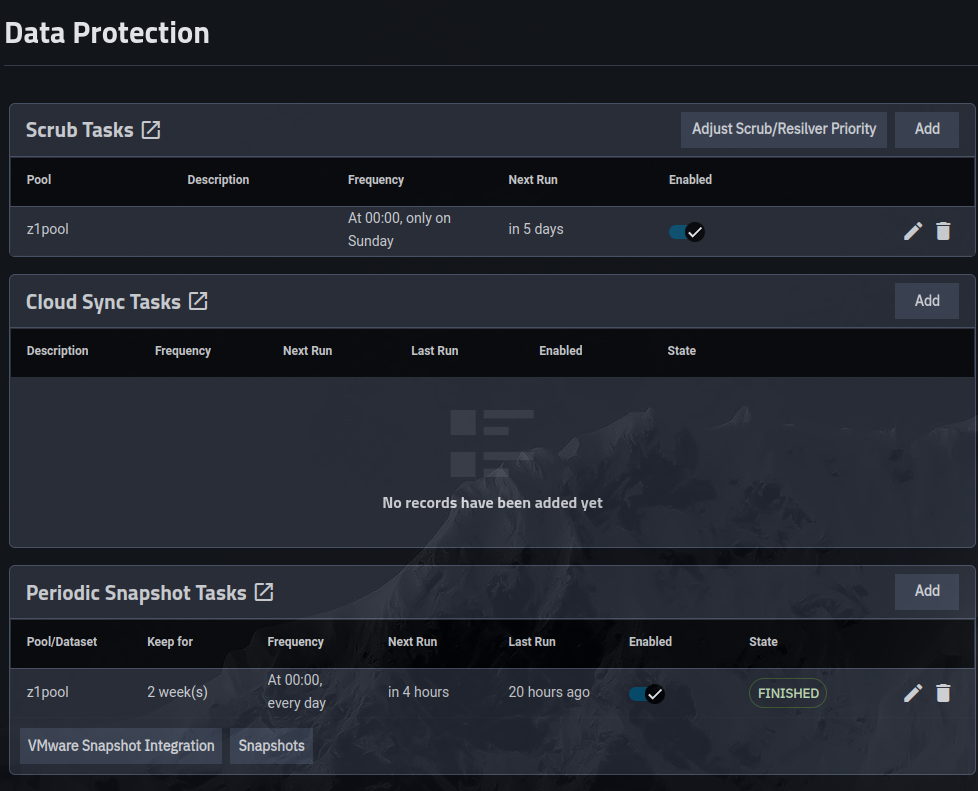
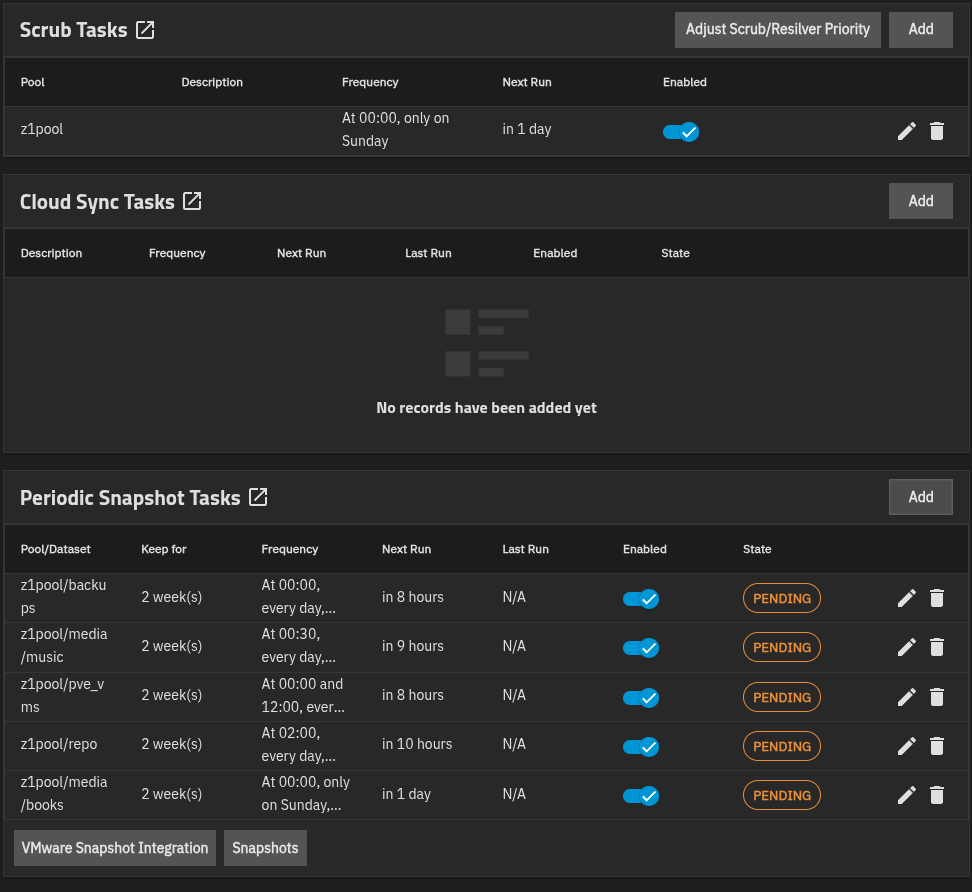
minor truenas updates

diff --git a/general_linux_guides/darktable.md b/general_linux_guides/darktable.md
@@ -28,7 +28,7 @@ _Updated November 2025_
 ![darktable_scene_referred_modules.png](./assets/darktable_scene_referred_modules.png)
 
 - Make sure defaults and presets are setup as described in the video
-- Auto-apply the following to all (raw only): **lens correction, hotpixels, denoise (profiled), chromatic aberrations, color balance rgb (based on basic colorfullness standard**
+- Auto-apply the following to all (raw only): **lens correction, hotpixels, denoise (profiled), chromatic aberrations, color balance rgb (based on basic colorfullness standard**)
   ![darktable_create_module_preset_auto_apply.png](./assets/darktable_create_module_preset_auto_apply.png)
 
 **WORKFLOW - BASE**
@@ -67,7 +67,7 @@ A good starting preset without even using mask is often "compress Shadows EIGF s
 1. rgb primaries - simpler channel mixer for broader changes before color equalizer is used for more detailed adjustments
    - Change hue of each channel towards opposite color (reds towards magenta, etc). purity controls saturation
 2. color equalizer - adjust specific colors or use **picker** on the image, then use _node placement_ to align the dot
-        > color look up table module can be used for quick color replacements with color picker tool 
+    > color look up table module can be used for quick color replacements with color picker tool 
     - hue tab is rarely used since rgb Primaries shoud do a good job. Middle-click to reveal sliders for each color
     - brightness and saturation tabs can be used for fine adjustments
 3. color balance rgb - used for split toning (make a new instance) in the **4-ways tab**

diff --git a/install_guides/truenas_scale.md b/install_guides/truenas_scale.md
@@ -8,7 +8,7 @@
 ```
 
 # UGREEN 4800 DXP4800 NAS - TrueNAS Scale
-_Updated August 2024 - for **Dragonfish-24.04.2**_
+_Updated December 2025 - for **Fangooth-25.04**_
 
 ### General:
 Guide:
@@ -24,7 +24,10 @@ https://www.youtube.com/watch?v=C-UI8Wvl9YU
 - When creating new datasets, create child datasets for applications/containers to properly see them (vs. creating subdirectories from another machine): **Click _Multiprotocol_**
 ![trunas_adding_new_sharepng.png](./assets/trunas_adding_new_sharepng.png)
  ![IMAGE](./assets/truenas_datasets.png?raw=true)
+ 
+- Set snapshots on the Data Protection tab (more critical datasets should be backed up more frequently)
  ![IMAGE](./assets/truenas_data_protection.png?raw=true)
+![truenas_snapshot_example.png](./assets/truenas_snapshot_example.png)
 > Use preset nfs4_775 and assign `smbuser` permissions where it needs it 
 
  ![IMAGE](./assets/truenas_acl.png?raw=true)
